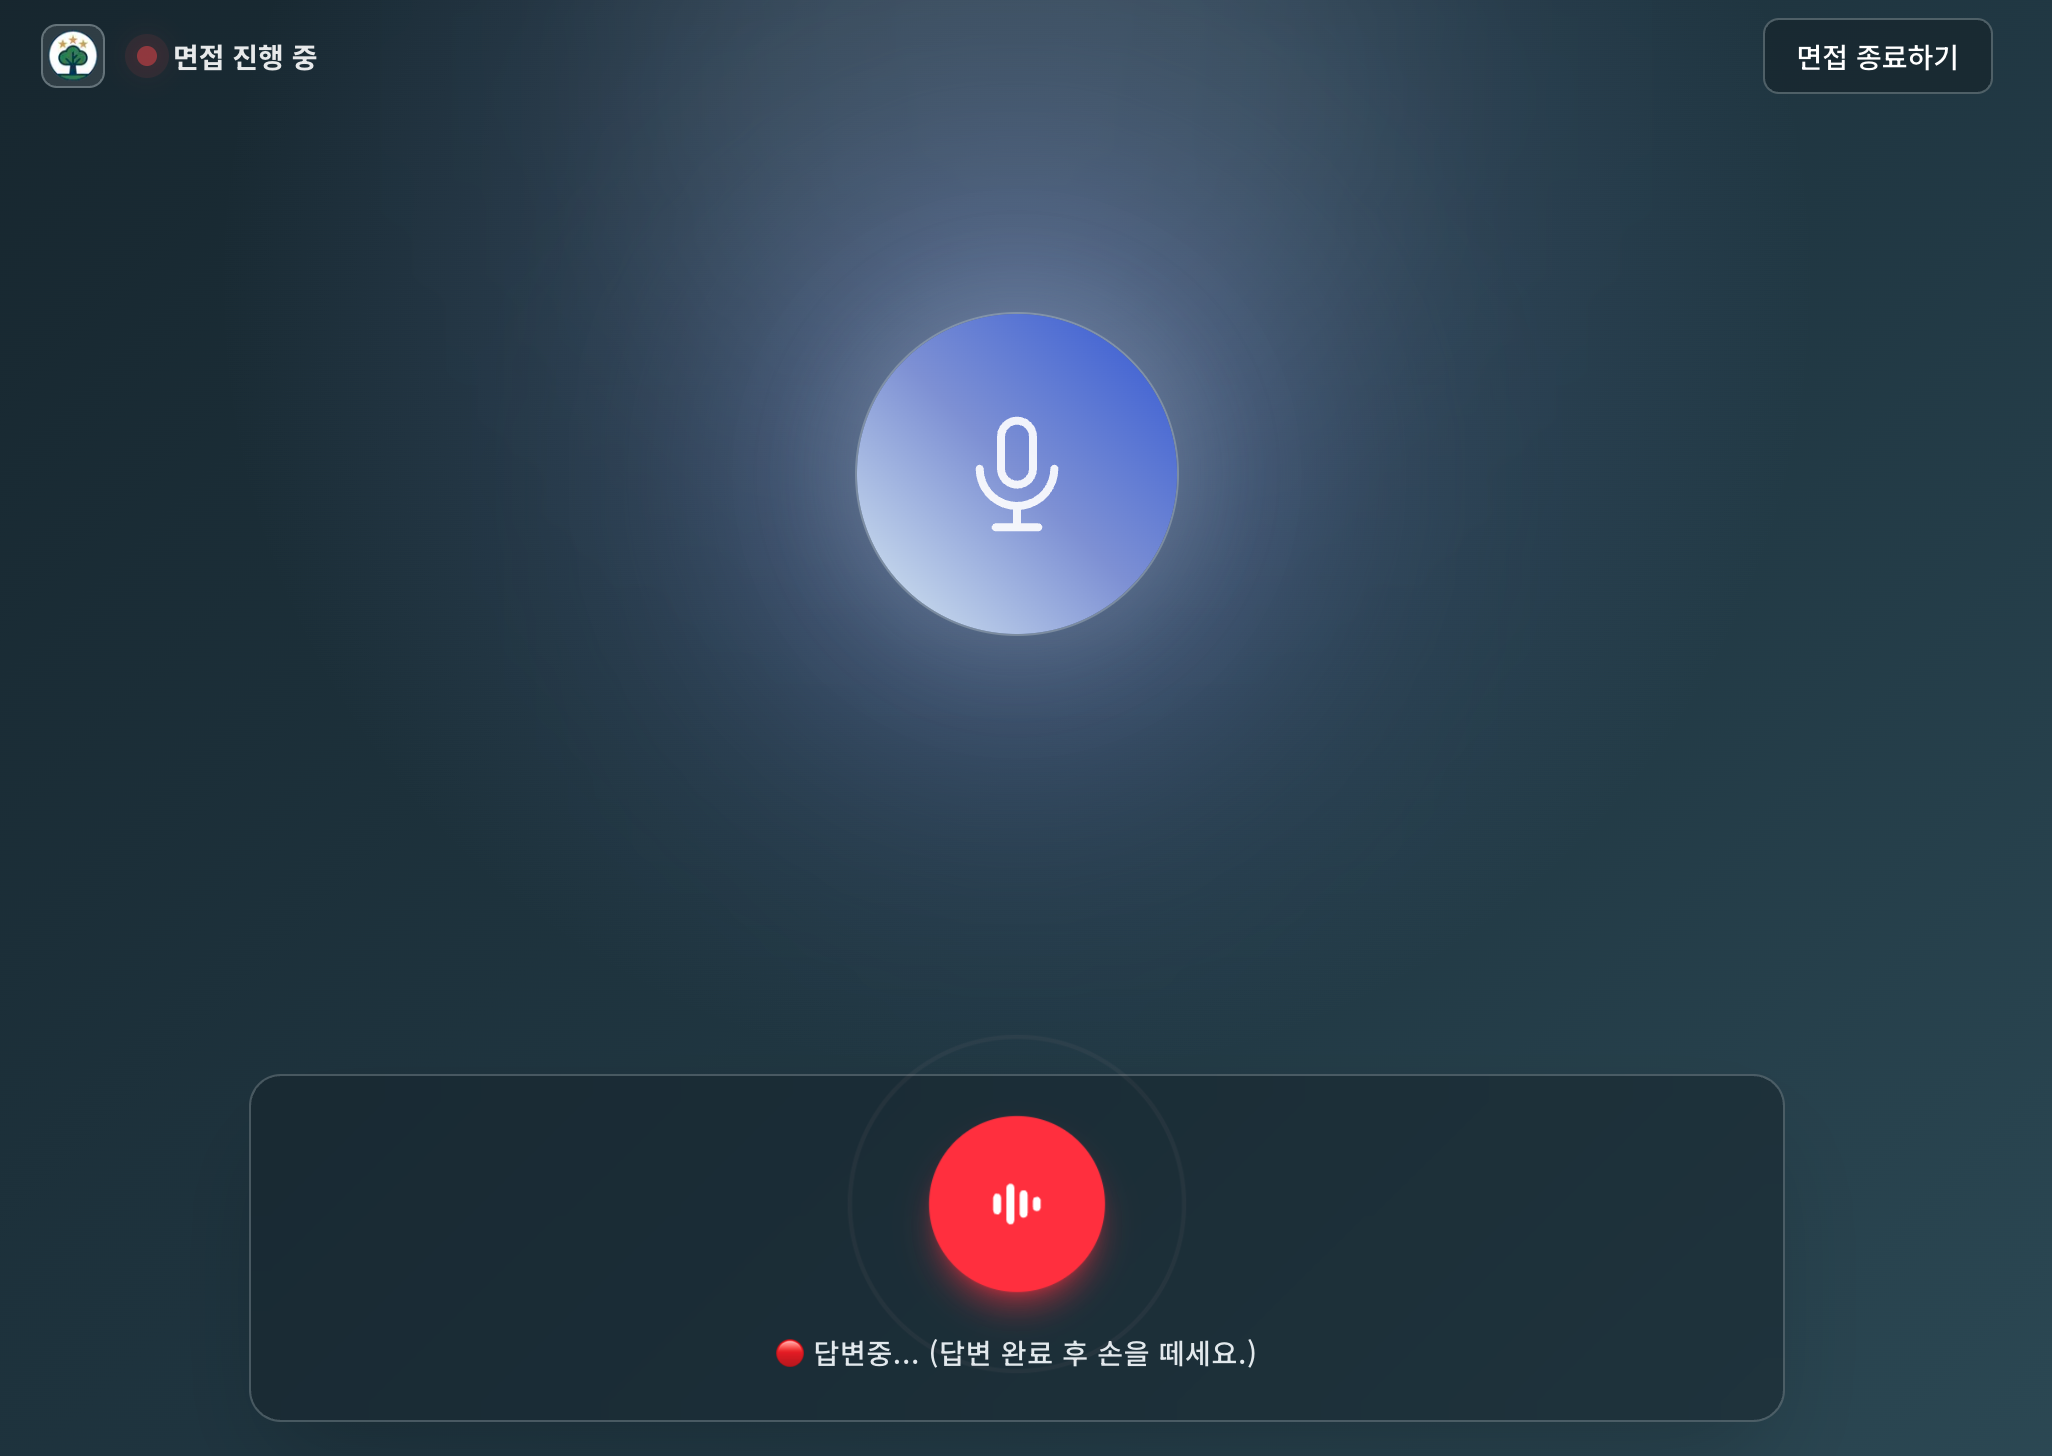
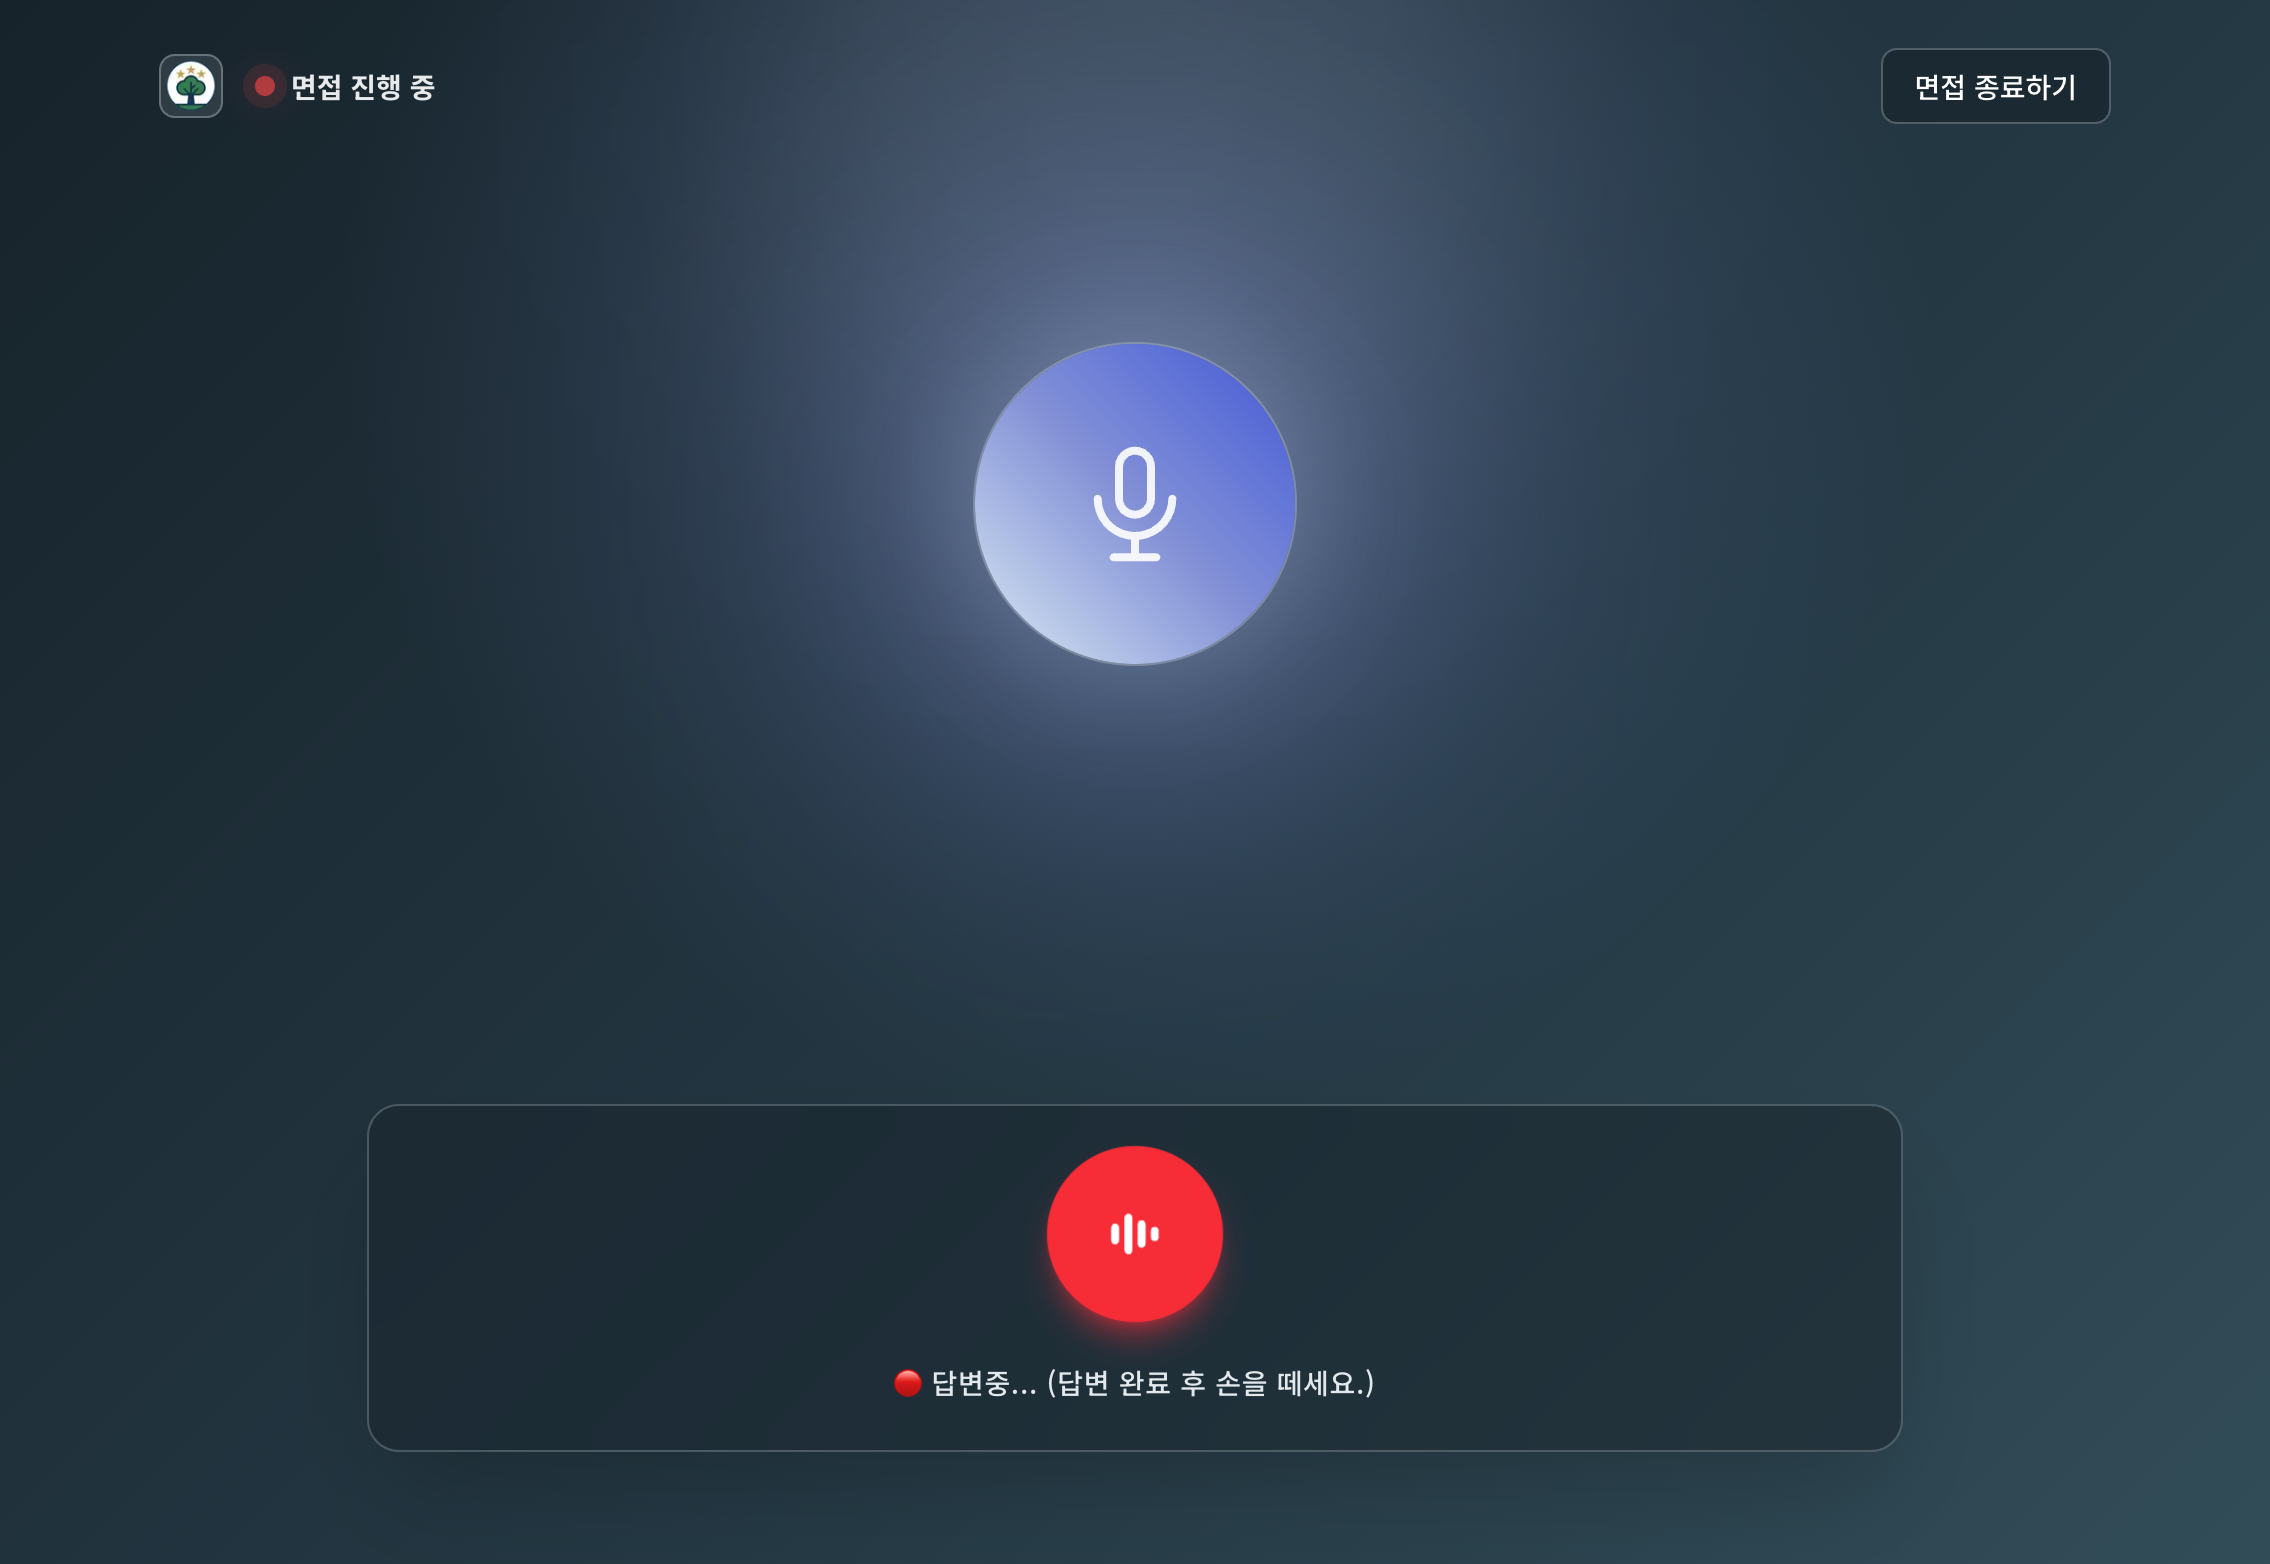
Add : 서비스 스크린 문서 작성 ; 실제 서비스 화면 이미지 나열

diff --git a/README.md b/README.md
@@ -1,5 +1,5 @@
 # 개발자의 성장이 현실이 되는 곳, TechTree
-# 👉 [서비스 바로가기](https://techtree.haebo.pro) 👈
+### 👉 [서비스 바로가기 : https://techtree.haebo.pro](https://techtree.haebo.pro) 👈
 
 <img src="frontend/public/logo/techtree-logo.png" width="200" height="200" alt="TechTree Tree" style="border-radius: 50%; object-fit: cover;">
 
@@ -16,12 +16,13 @@
 > 💡 **실시간 통신(WebRTC)** 의 속도감과 **에이전틱한 작업 흐름**의 정교함을 동시에 확보하도록 설계되었습니다.<br/>
 > 💡 반복적인 **실전 연습**과 AI의 객관적인 **피드백**을 통해 면접 역량을 극대화합니다. 
 
+> [TechTree Service UI](docs/service_screens.md)
 ![Service Capture](frontend/public/service/techtree-home.png)
 
 ## 📖 Index
 - [Documentation](#-documentation): 기획 및 설계 문서 <br/>
 - [Tech Stack](#-tech-stack): 사용 기술 및 도구 <br/>
-- [Architecture & Agent Workflow](#-Architecture-&-Agent-Workflow): 시스템 구조 <br/>
+- [Architecture & Agent Workflow](#-architecture--agent-workflow): 시스템 구조 <br/>
 - [Git & Deployment](#-git--deployment): 브랜치 전략 및 배포 <br/>
 - [Version History](#-version-history): 버전별 변경 사항 <br/>
 - [Getting Started](#-getting-started): 설치 및 실행 방법
@@ -36,7 +37,8 @@
 
 | Category | Description | Key Documents |
 | --- | --- | --- |
-| **기획 (PRD)** | 서비스 목표 및 흐름 정의 | • [MVP 및 개발 계획](docs/mvp_and_plan.md)<br>• [서비스 흐름도](docs/user_flow.md) |
+| **서비스 (Product)** | 실제 화면과 사용자 흐름 | • [서비스 화면](docs/service_screens.md)<br>• [서비스 흐름도](docs/user_flow.md) |
+| **기획 (PRD)** | 서비스 목표 및 개발 계획 | • [MVP 및 개발 계획](docs/mvp_and_plan.md)<br>• [TechTree Wiki](docs/techtree-wiki.md) |
 | **설계 (Design)** | 시스템 및 AI 에이전트 설계 | • [시스템 아키텍처](docs/architecture.md)<br>• [AI 에이전트 워크플로우](docs/agent_workflow.md) |
 | **지식 (Knowledge)** | 기술 의사결정 및 참고 자료 | • [기술 스택 선정 이유](docs/tech_decisions.md)<br>• [참고 레퍼런스](docs/references.md) |
 
@@ -62,11 +64,11 @@
 - **Realtime**: `WebRTC` 기술을 활용하여 저지연 실시간 음성 통신을 지원합니다.
 
 > [**System Architecture**](docs/architecture.md)
-![alt text](docs/images/Techtree-Arch-v2.0.drawio.svg)
+![TechTree v2.0 system architecture](docs/images/Techtree-Arch-v2.0.drawio.svg)
 *(v2.0 아키텍처 다이어그램)*
 
 > [**Agent Workflow**](docs/agent_workflow.md)
-![alt text](docs/images/v2.0_agent_logic.png)
+![TechTree v2.0 LangGraph workflow](docs/images/v2.0_agent_logic.png)
 *(v2.0 랭그래프 워크플로우)*
 
 ---
@@ -76,8 +78,8 @@
 
 | Branch | Action & Role | Frontend | Backend | Database |
 | :--- | :--- | :--- | :--- | :--- |
-| **`develop`** | **Develop & Test**<br/>개발 및 로컬 테스트 | **Localhost / Preview**<br/>(Dev Environment) | **Local Docker**<br/>(Uvicorn Reload) | **MongoDB Atlas**<br/>(Dev) |
-| **`main` / `Tag`** | **Production**<br/>실제 라이브 서비스 | **Vercel Prod**<br/>(Edge Network) | **FastAPI Runtime** | **Optional MongoDB Atlas**<br/>(Reflection Memory) |
+| **`develop`** | **Develop & Test**<br/>개발 및 로컬/도커 테스트 | **Localhost / Preview**<br/>(Dev Environment) | **Local Uvicorn / Docker Smoke Test** | **MongoDB Atlas**<br/>(Unified DB) + **Local JSONL Fallback** |
+| **`main` / `Tag`** | **Production**<br/>AWS 서버 배포 | **AWS EC2 Docker**<br/>(Next.js + Nginx) | **AWS EC2 Docker**<br/>(FastAPI/Uvicorn) | **MongoDB Atlas**<br/>(Unified DB) + **AWS JSONL Fallback / Sync** |
 
 ---
 
@@ -90,7 +92,7 @@
 | [**v1.0.0**](https://github.com/haebo9/ai-techtree-project/tree/v1.0.0) | **MCP Tool Calling Agent**<br>MCP tool을 활용한 챗봇 서비스 | Langchain, MCP, FastAPI, AWS | 2026.01.15 |
 | [**v1.1.0**](https://github.com/haebo9/ai-techtree-project/tree/v1.1.0) | **Agentic Quiz System**<br>키워드 기반 동적 문제 풀이 서비스 | LangGraph, MongoDB, Streamlit | 2026.03.02 |
 | [**v1.1.1(lab)**](https://github.com/haebo9/ai-techtree-project/tree/v1.1.1(lab)) | **Multi-Agent Workflow**<br>LangGraph 기반 에이전트 워크플로우 고도화 | LangGraph, Sub-Agents, Next.js | - |
-| [**v2.0.0**]((https://github.com/haebo9/ai-techtree-project/tree/v2.0.0)) | **Realtime Voice Interview**<br>실시간 음성 면접 및 멀티모달 분석 서비스 | OpenAI Realtime, WebRTC, Next.js | 2026.05.18 |
+| [**v2.0.0**](https://github.com/haebo9/ai-techtree-project/tree/v2.0.0) | **Realtime Voice Interview**<br>실시간 음성 면접 및 멀티모달 분석 서비스 | OpenAI Realtime, WebRTC, Next.js | 2026.05.18 |
 
 ---
 
@@ -100,7 +102,7 @@
 ### Prerequisites (v2.0 Deployment)
 - **Environment**:
    - **Python**: `3.12.13` (Release Version: python:3.12-slim)
-   - **Node.js**: `v25.2.1` (Release Version: node:22-slim)
+   - **Node.js**: `22.x` (Release Version: node:22-slim)
    - **Next.js**: `16.2.6`
    - **React**: `19.2.6`
 

diff --git a/docs/service_screens.md b/docs/service_screens.md
@@ -1,0 +1,65 @@
+# TechTree Service Screens
+
+> 서비스에 직접 접속하지 않아도 TechTree v2.0의 주요 화면 흐름을 빠르게 확인할 수 있도록 정리한 화면 중심 문서입니다.
+
+## 화면 흐름
+
+| Step | Screen | Description |
+| --- | --- | --- |
+| 1 | Home | 면접 프로필, 이력서, 채용 공고를 입력하고 AI 면접을 시작합니다. |
+| 2 | Interview | OpenAI Realtime WebRTC 기반 음성 면접을 진행합니다. |
+| 3 | Complete | 면접 종료 후 리포트 생성과 이메일 발송 상태를 확인합니다. |
+| 4 | Report | 점수, 강점, 개선점, 상세 Q&A 피드백을 확인합니다. |
+| Dev | Debug | Realtime 연결, 이벤트 로그, 도구 호출을 개발자가 점검합니다. |
+
+---
+
+## 1. Home
+> 면접을 위한 초대코드 및 기본 페이지 입력 창입니다. 페이지 하단에 홈 화면 전체 캡쳐 이미지가 있습니다. 
+
+![TechTree home screen](../frontend/public/service/techtree-home-invite-code.png)
+![TechTree home screen](../frontend/public/service/techtree-home.png)
+
+---
+
+## 2. Interview
+![TechTree realtime interview screen](../frontend/public/service/techtree-interview-start.png)
+![TechTree realtime interview screen](../frontend/public/service/techtree-interview-before.png)
+![TechTree realtime interview screen](../frontend/public/service/techtree-interview.png)
+
+---
+
+## 3. Complete
+
+![TechTree interview complete screen](../frontend/public/service/techtree-complete-wide.png)
+
+---
+
+## 4. Report
+
+<table>
+  <tr>
+    <td width="50%" valign="top">
+      <img src="../frontend/public/service/techtree-report-1.png" alt="TechTree report summary screen" />
+    </td>
+    <td width="50%" valign="top">
+      <img src="../frontend/public/service/techtree-report-2.png" alt="TechTree report detail screen" />
+    </td>
+  </tr>
+</table>
+
+---
+
+## Developer Debug
+
+> Realtime 세션 연결, 이벤트 로그, tool call 흐름을 점검하기 위한 개발자용 화면입니다.
+
+![TechTree debug screen](../frontend/public/service/techtree-debug.png)
+
+---
+
+## Full Home Capture
+
+> 첫 화면의 전체 스크롤 구성을 확인하기 위한 긴 캡처입니다.
+
+![TechTree full home capture](../frontend/public/service/techtree-home-full.png)

diff --git a/docs/README.md b/docs/README.md
@@ -2,10 +2,11 @@
 
 TechTree 문서는 최종 배포, 개발자 온보딩, 포트폴리오 설명을 함께 지원하기 위해 관리됩니다.
 
-## 핵심 문서
+## 서비스 이해
 
 - [TechTree Wiki](./techtree-wiki.md): 서비스 목적, 전체 아키텍처, API 흐름, Realtime 면접, 평가, Reflection/Policy 자기개선, Docker/AWS 배포를 한 번에 설명하는 기준 문서
-- [User Flow](./user_flow.md): 사용자가 보는 화면 흐름과 시스템 내부 처리 순서
+- [Service Screens](./service_screens.md): 서비스에 접속하지 않고도 홈, 면접, 완료, 리포트 화면을 확인할 수 있는 이미지 중심 문서
+- [User Flow](./user_flow.md): 사용자가 보는 화면 흐름과 각 단계의 시스템 내부 처리 순서
 - [MVP and Plan](./mvp_and_plan.md): MVP에서 현재 배포 버전까지의 기능 진화와 향후 과제
 
 ## 설계와 의사결정
